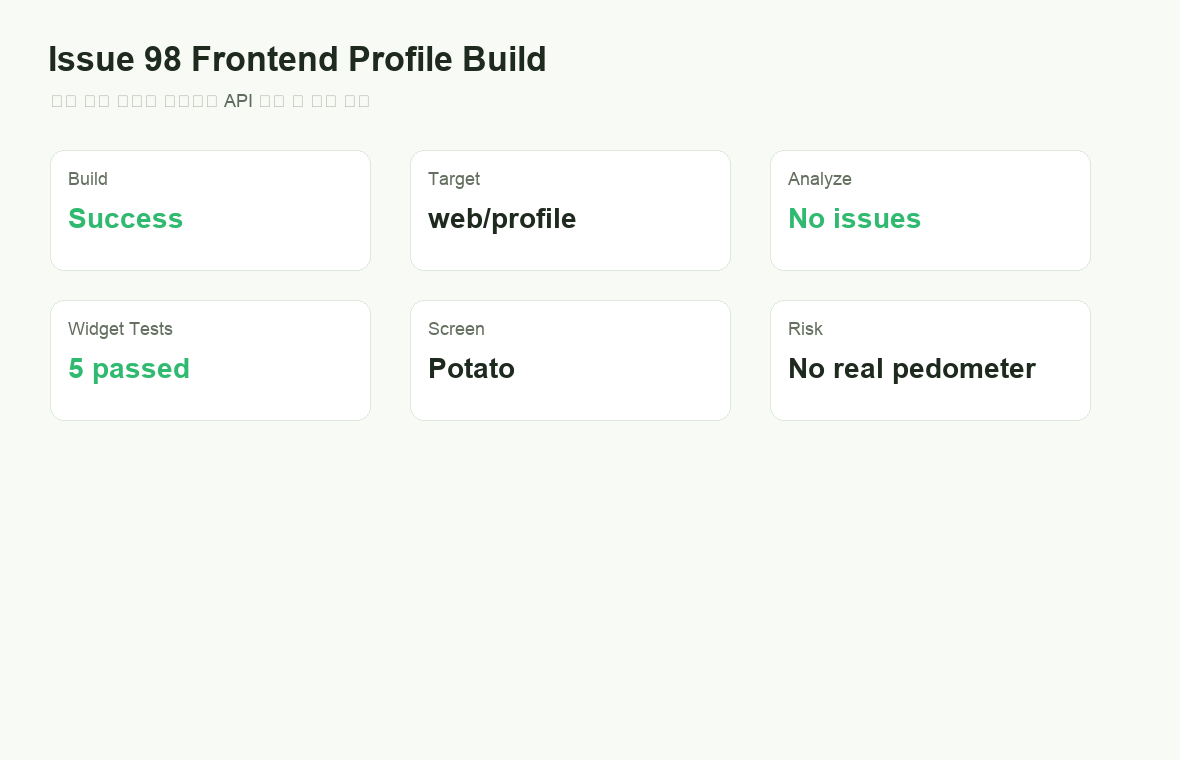
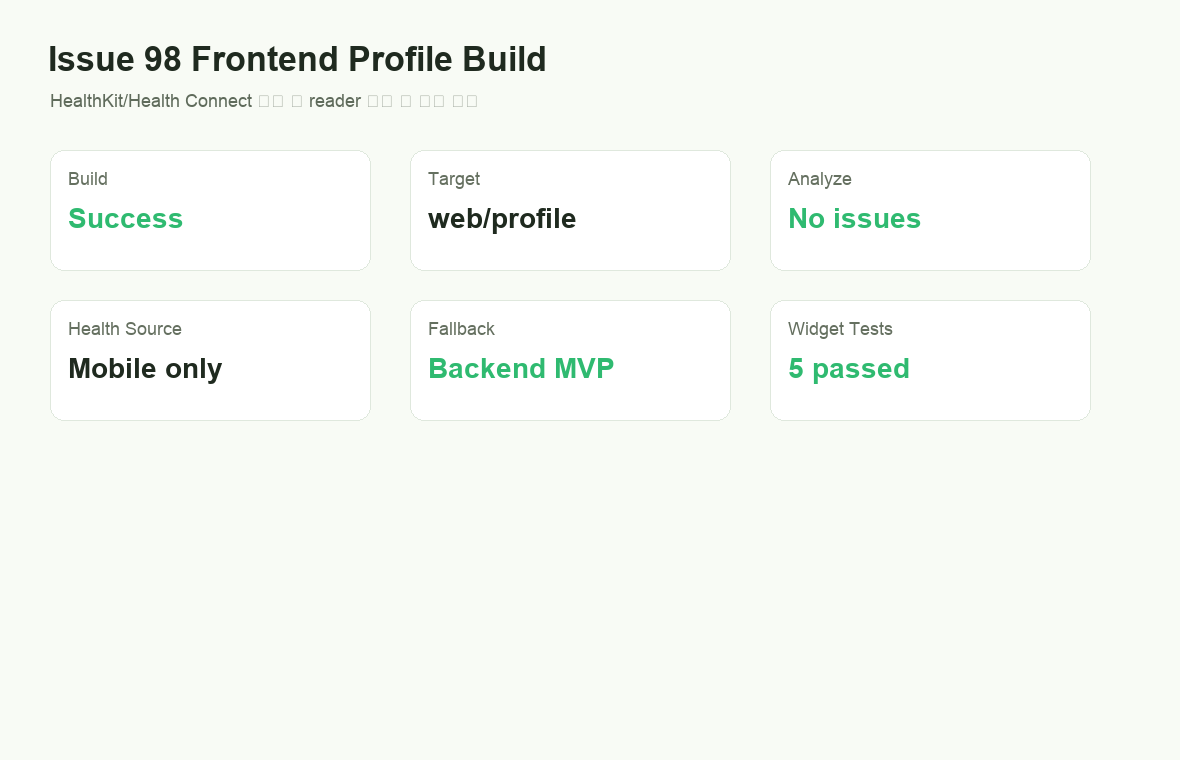
chore(validation): Health 걸음 수 연동 검증 갱신 (#98)

diff --git a/artifacts/validation/issue-98/frontend-profile-build-report.html b/artifacts/validation/issue-98/frontend-profile-build-report.html
@@ -1,11 +1,16 @@
 <!doctype html>
 <html lang="ko"><head><meta charset="utf-8"><title>Issue 98 Frontend Profile Build</title>
 <style>body{font-family:-apple-system,BlinkMacSystemFont,"Segoe UI",sans-serif;margin:40px;color:#1f2a1f;background:#f8fbf5}.grid{display:grid;grid-template-columns:repeat(3,minmax(160px,1fr));gap:14px;margin-top:24px}.card{background:#fff;border:1px solid #dfe8dd;border-radius:10px;padding:18px;box-shadow:0 8px 24px rgba(31,42,31,.08)}.label{color:#657060;font-size:13px;font-weight:700}.value{margin-top:8px;font-size:26px;font-weight:900}.ok{color:#2fba70}pre{background:#fff;border:1px solid #dfe8dd;border-radius:10px;padding:16px;white-space:pre-wrap}</style></head>
-<body><h1>Issue 98 Frontend Profile Build Report</h1><p>대상: 감자 도감 오늘의 감자걸음 API 연동 후 profile web build</p><div class="grid">
+<body><h1>Issue 98 Frontend Profile Build Report</h1><p>대상: HealthKit/Health Connect 걸음 수 reader 연결 후 profile web build</p><div class="grid">
 <section class="card"><div class="label">Build</div><div class="value ok">Success</div></section>
 <section class="card"><div class="label">Target</div><div class="value">web/profile</div></section>
 <section class="card"><div class="label">Analyzer</div><div class="value ok">No issues</div></section>
-</div><h2>Build Log</h2><pre>The following plugins do not support Swift Package Manager for ios:
+<section class="card"><div class="label">Health Source</div><div class="value">Mobile only</div></section>
+<section class="card"><div class="label">Fallback</div><div class="value ok">Backend MVP</div></section>
+<section class="card"><div class="label">Widget Tests</div><div class="value ok">5 passed</div></section>
+</div><h2>Build Log</h2><pre>Waiting for another flutter command to release the startup lock...
+The following plugins do not support Swift Package Manager for ios:
+  - health
   - flutter_secure_storage
 This will become an error in a future version of Flutter. Please contact the plugin maintainers to request Swift Package Manager adoption.
 Compiling lib/main.dart for the Web...                          
@@ -26,6 +31,6 @@ Consider addressing these issues to enable wasm builds. See docs for more info: 
 Use --no-wasm-dry-run to disable these warnings.
 Expected to find fonts for (MaterialIcons, packages/cupertino_icons/CupertinoIcons), but found (MaterialIcons). This usually means you are referring to font families in an IconData class but not including them in the assets section of your pubspec.yaml, are missing the package that would include them, or are missing "uses-material-design: true".
 Font asset "MaterialIcons-Regular.otf" was tree-shaken, reducing it from 1645184 to 17192 bytes (99.0% reduction). Tree-shaking can be disabled by providing the --no-tree-shake-icons flag when building your app.
-Compiling lib/main.dart for the Web...                             58.2s
+Compiling lib/main.dart for the Web...                             56.7s
 ✓ Built build/web
 </pre></body></html>

diff --git a/artifacts/validation/issue-98/VALIDATION.md b/artifacts/validation/issue-98/VALIDATION.md
@@ -6,7 +6,8 @@
 
 - Backend: `GET /api/potatoes/me/growth-summary` API 추가
 - Frontend: 감자 도감 카드에서 성장 요약 API 응답 표시
-- 제외 범위: HealthKit/Google Fit/실시간 만보기 연동, 보상 지급 로직, 감자 성장 write API, 실제 디바이스 걸음 수 수집
+- Frontend: iOS HealthKit 또는 Android Health Connect에서 오늘 걸음 수를 읽어 카드에 반영
+- 제외 범위: 백그라운드 걸음 수 동기화, Health 데이터 서버 저장, 보상 지급 로직, 감자 성장 write API
 
 ## 진행 내용
 
@@ -31,6 +32,15 @@
 - 감자 도감의 `오늘의 감자걸음` 카드는 provider 상태에 따라 로딩, 오류, 데이터 상태를 표시하도록 변경했다.
 - 기존 위젯 테스트에 성장 요약 provider override를 추가해 카드 표시가 API 계약을 따르는지 확인했다.
 
+### 4. HealthKit/Health Connect 걸음 수 연결
+
+- `health` 패키지를 추가했다.
+- iOS `Info.plist`에 HealthKit 권한 문구를 추가하고 `Runner.entitlements`에 HealthKit capability를 연결했다.
+- Android `AndroidManifest.xml`에 Health Connect 조회, `READ_STEPS`, `ACTIVITY_RECOGNITION` 권한을 추가했다.
+- Android `MainActivity`를 `FlutterFragmentActivity`로 변경해 Health Connect 권한 요청 경로와 호환되게 했다.
+- Web 빌드가 깨지지 않도록 conditional import를 사용했다. Web은 stub reader가 `null`을 반환하고, iOS/Android에서만 `health` 패키지를 import한다.
+- 실제 기기 걸음 수를 읽을 수 있으면 백엔드 성장 요약의 `todaySteps`만 대체한다. 권한 거부, Health Connect 미설치, 시뮬레이터 제약, 예외 상황에서는 백엔드 MVP 값을 유지한다.
+
 ## PAAR 트러블슈팅
 
 ### P: 인증 성장 요약 API를 k6로 어떻게 측정할지 애매했다
@@ -48,6 +58,18 @@
 ### R: 재실행 결과 smoke 기준 통과
 
 최종 k6 결과는 checks 100%, failed rate 0%, p95 3.09ms로 통과했다. 단, 인증된 실제 사용자 데이터 조회 성능은 JWT/시드 사용자 기반 성능 시나리오가 준비된 후 별도 측정이 필요하다.
+
+### P: HealthKit/Health Connect 플러그인이 Web 빌드를 깨뜨릴 수 있었다
+
+`health` 패키지는 iOS/Android용 네이티브 플러그인이며 내부적으로 `dart:io`를 사용한다. 감자 도감 화면은 Web에서도 확인해야 하므로 일반 파일에서 직접 import하면 Web profile build가 실패할 가능성이 있었다.
+
+### A: conditional import로 플랫폼별 reader를 분리했다
+
+공통 인터페이스 `StepCountReader`를 두고, `dart.library.io`가 있는 환경에서만 `HealthStepCountReader`를 사용하게 했다. Web에서는 `UnsupportedStepCountReader`가 `null`을 반환한다.
+
+### R: Web profile build 통과 및 모바일 fallback 확보
+
+`flutter build web --profile`이 성공했고, Web은 백엔드 MVP 걸음 값을 계속 사용한다. iOS/Android 실제 기기에서는 권한이 허용될 때 오늘 걸음 수가 카드에 반영된다.
 
 ## 실행한 검증
 
@@ -70,7 +92,7 @@ cd frontend && /Users/mac/Documents/flutter/bin/flutter analyze
 ```
 
 - 결과: 성공, No issues found
-- 참고: 첫 병렬 실행은 Flutter startup lock/ephemeral 파일 삭제 충돌로 실패했으나, 단독 재실행에서 통과했다.
+- 참고: `health`, `flutter_secure_storage`가 iOS Swift Package Manager를 아직 지원하지 않는다는 경고가 있으나 현재 CocoaPods 기반 빌드는 가능하다.
 
 ```bash
 cd backend && ./gradlew bootTestRun --args='--server.port=18080 --spring.datasource.url=jdbc:h2:mem:issue98;MODE=PostgreSQL;DATABASE_TO_LOWER=TRUE;DEFAULT_NULL_ORDERING=HIGH --spring.datasource.driver-class-name=org.h2.Driver --spring.datasource.username=sa --spring.datasource.password= --spring.data.redis.host=localhost --external.tour-api.import-on-startup=false'
@@ -90,7 +112,7 @@ cd frontend && /Users/mac/Documents/flutter/bin/flutter build web --profile
 ```
 
 - 결과: 성공
-- 목적: 감자 도감 화면 변경 후 profile web build 가능 여부 확인
+- 목적: HealthKit/Health Connect reader conditional import 후 Web profile build 가능 여부 확인
 
 ## 산출물
 
@@ -105,13 +127,14 @@ cd frontend && /Users/mac/Documents/flutter/bin/flutter build web --profile
 
 ## 남은 리스크
 
-- 현재 걸음 수와 주/월 거리 값은 실제 디바이스 API가 아니라 MVP 정책값이다.
+- iOS/Android 실제 걸음 수는 Health 권한을 허용한 실제 기기에서만 최종 확인할 수 있다. 시뮬레이터는 Health 데이터가 없거나 제한될 수 있다.
+- 주/월 거리 값은 아직 실제 디바이스 API가 아니라 백엔드 MVP 정책값이다.
 - 인증된 실제 사용자 + 대표 감자 데이터 기반의 k6 성능 테스트는 JWT 생성/시드 계정 준비 후 별도 보강이 필요하다.
-- 실제 iOS/Android 디바이스에서 HealthKit/Google Fit 또는 pedometer 연동을 붙이면 권한, 배터리, 백그라운드 수집 정책을 다시 검증해야 한다.
+- 실제 iOS/Android 디바이스에서 HealthKit/Health Connect를 검증할 때 권한 허용, Health Connect 설치 여부, iOS HealthKit capability 활성화 여부를 같이 확인해야 한다.
 
 ## 다음 작업 제안
 
-1. HealthKit/iOS, Google Fit 또는 Android Health Connect 기반 걸음 수 수집 이슈 분리
-2. 걸음 수 집계 저장 테이블과 일/주/월 조회 API 추가
-3. 감자 성장 write API와 대표 감자 성장 레벨업 규칙 구현
+1. 걸음 수 집계 저장 테이블과 일/주/월 조회 API 추가
+2. 감자 성장 write API와 대표 감자 성장 레벨업 규칙 구현
+3. 실제 iOS/Android 기기에서 HealthKit/Health Connect 권한 팝업과 걸음 값 확인
 4. 실제 기기에서 DevTools Performance/Android Studio Profiler로 프레임과 메모리 확인
